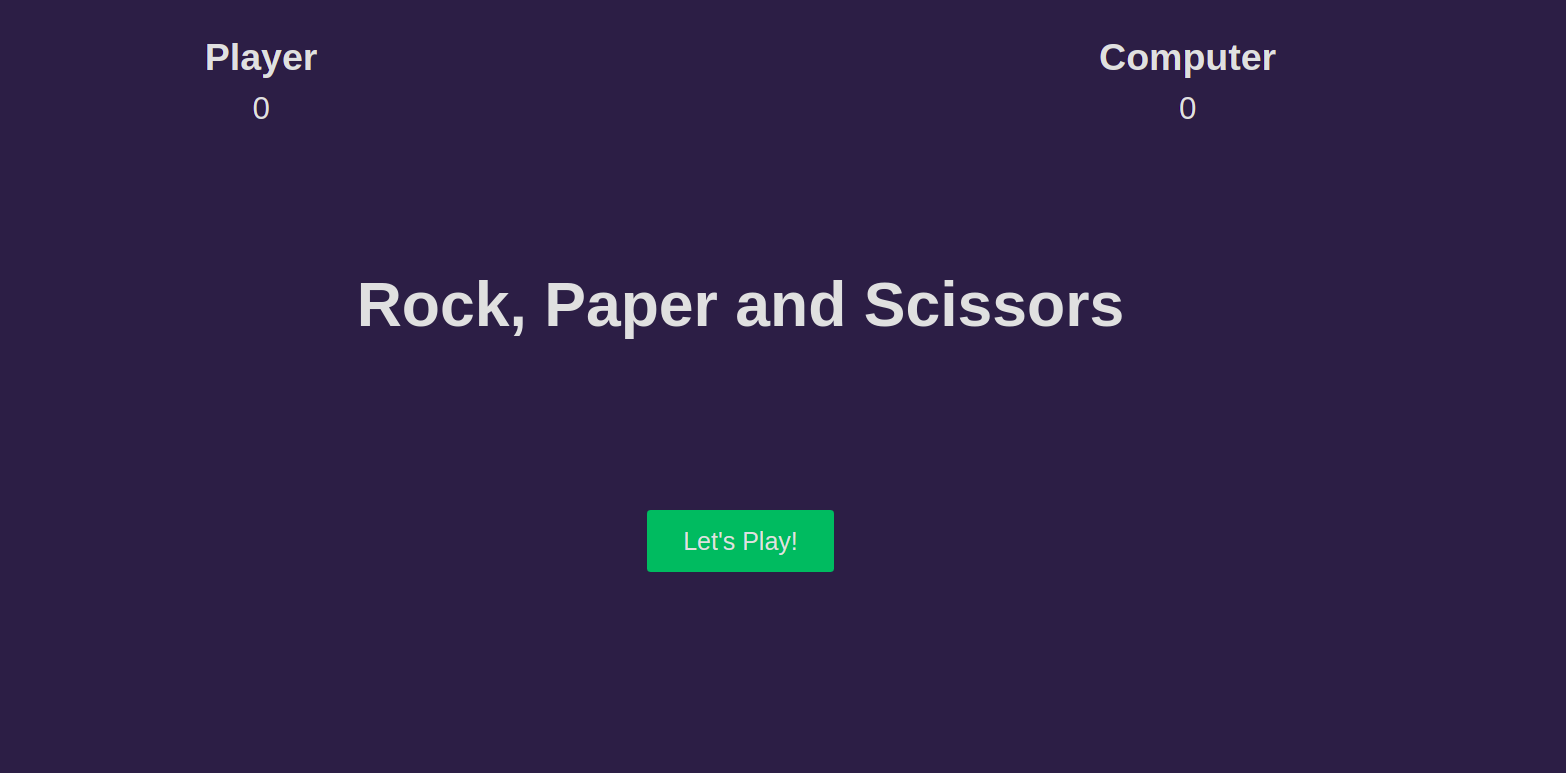
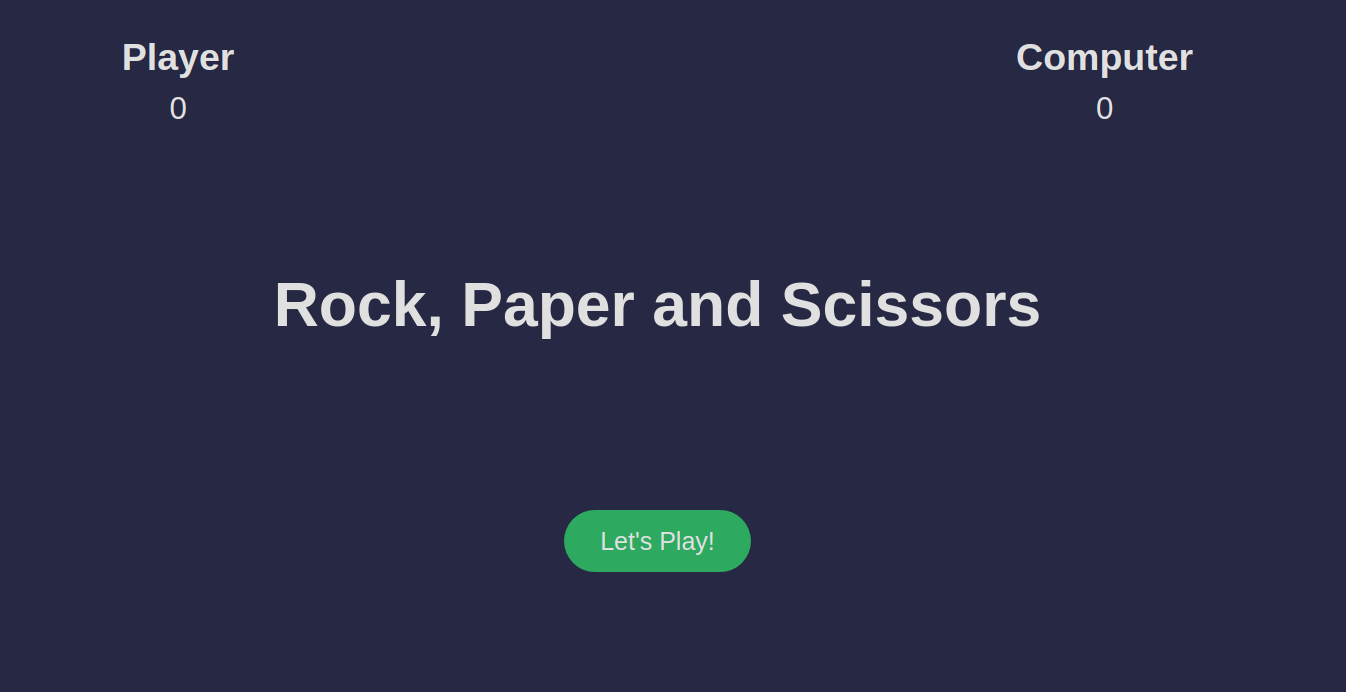
Update the main project

diff --git a/main.js b/main.js
@@ -20,30 +20,29 @@ const game = () => {
         const computerHand = document.querySelector('.computer-hand');
         const hands = document.querySelectorAll('.hands img');
 
-        hands.forEach((hand) => {
-            hand.addEventListener('animationed', function () {
-                this.style.animation = '';
-            })
-        })
+        hands.forEach(hand => {
+            hand.addEventListener("animationend", function() {
+                this.style.animation = "";
+            });
+        });
+        //Computer Options
+        const computerOptions = ["rock", "paper", "scissors"];
 
-        // Computer options
-        const computerOptions = ['rock', 'paper', 'scissors'];
-
-        options.forEach((options) => {
-            options.addEventListener('click', function () {
+        options.forEach(option => {
+            option.addEventListener("click", function() {
                 //Computer Choice
                 const computerNumber = Math.floor(Math.random() * 3);
                 const computerChoice = computerOptions[computerNumber];
 
                 setTimeout(() => {
+                    //Here is where we call compare hands
                     compareHands(this.textContent, computerChoice);
 
                     // Update images
                     playerHand.src = `assets/${this.textContent}.png`;
                     computerHand.src = `assets/${computerChoice}.png`;
                 }, 2000);
-
-                // Animations
+                //Animation
                 playerHand.style.animation = "shakePlayer 2s ease";
                 computerHand.style.animation = "shakeComputer 2s ease";
             });
@@ -56,7 +55,7 @@ const game = () => {
 
         playerScore.textContent = pScore;
         computerScore.textContent = cScore;
-    }
+    };
 
     const compareHands = (playerChoice, computerChoice) => {
         // Update text
@@ -69,12 +68,12 @@ const game = () => {
         // Check for rock
         if (playerChoice === 'rock') {
             if (computerChoice === 'scissors') {
-                winner.textContent = "player wins";
+                winner.textContent = "player win";
                 pScore++;
                 updateScore();
                 return;
             } else {
-                winner.textContent = "computer wins";
+                winner.textContent = "computer win";
                 cScore++;
                 updateScore();
                 return;
@@ -83,12 +82,12 @@ const game = () => {
         // Chech for paper
         if (playerChoice === 'paper') {
             if (computerChoice === 'scissors') {
-                winner.textContent = "computer wins";
+                winner.textContent = "computer win";
                 cScore++;
                 updateScore();
                 return;
             } else {
-                winner.textContent = "player wins";
+                winner.textContent = "player win";
                 pScore++;
                 updateScore();
                 return;
@@ -97,19 +96,21 @@ const game = () => {
         // Check for scissors
         if (playerChoice === 'scissors') {
             if (computerChoice === 'rock') {
-                winner.textContent = "computer wins";
+                winner.textContent = "computer win";
                 cScore++;
                 updateScore();
-                return;
             } else {
-                winner.textContent = "player wins";
+                winner.textContent = "player win";
                 pScore++;
                 updateScore();
-                return;
             }
         }
-    }
+    };
+
+    //Is call all the inner function
     startGame();
     playMatch();
 };
+
+//start the game function
 game();

diff --git a/style.css b/style.css
@@ -50,7 +50,7 @@ section {
     color: rgb(224, 224, 224);
     font-size: 20px;
     background: rgb(45, 170, 96);
-    border-radius: 3px;
+    border-radius: 50px;
     cursor: pointer;
 }
 

diff --git a/readme.md b/readme.md
@@ -1,6 +1,7 @@
 #rock-paper-and-scissors-game
 
-#Let's play
+1. Let's play
 ![screenshot](screenshots/ss1.png)
-#What's up, Computer? ;p
+   
+2. What's up, Computer? ;p
 ![screenshot](screenshots/ss2.png)
